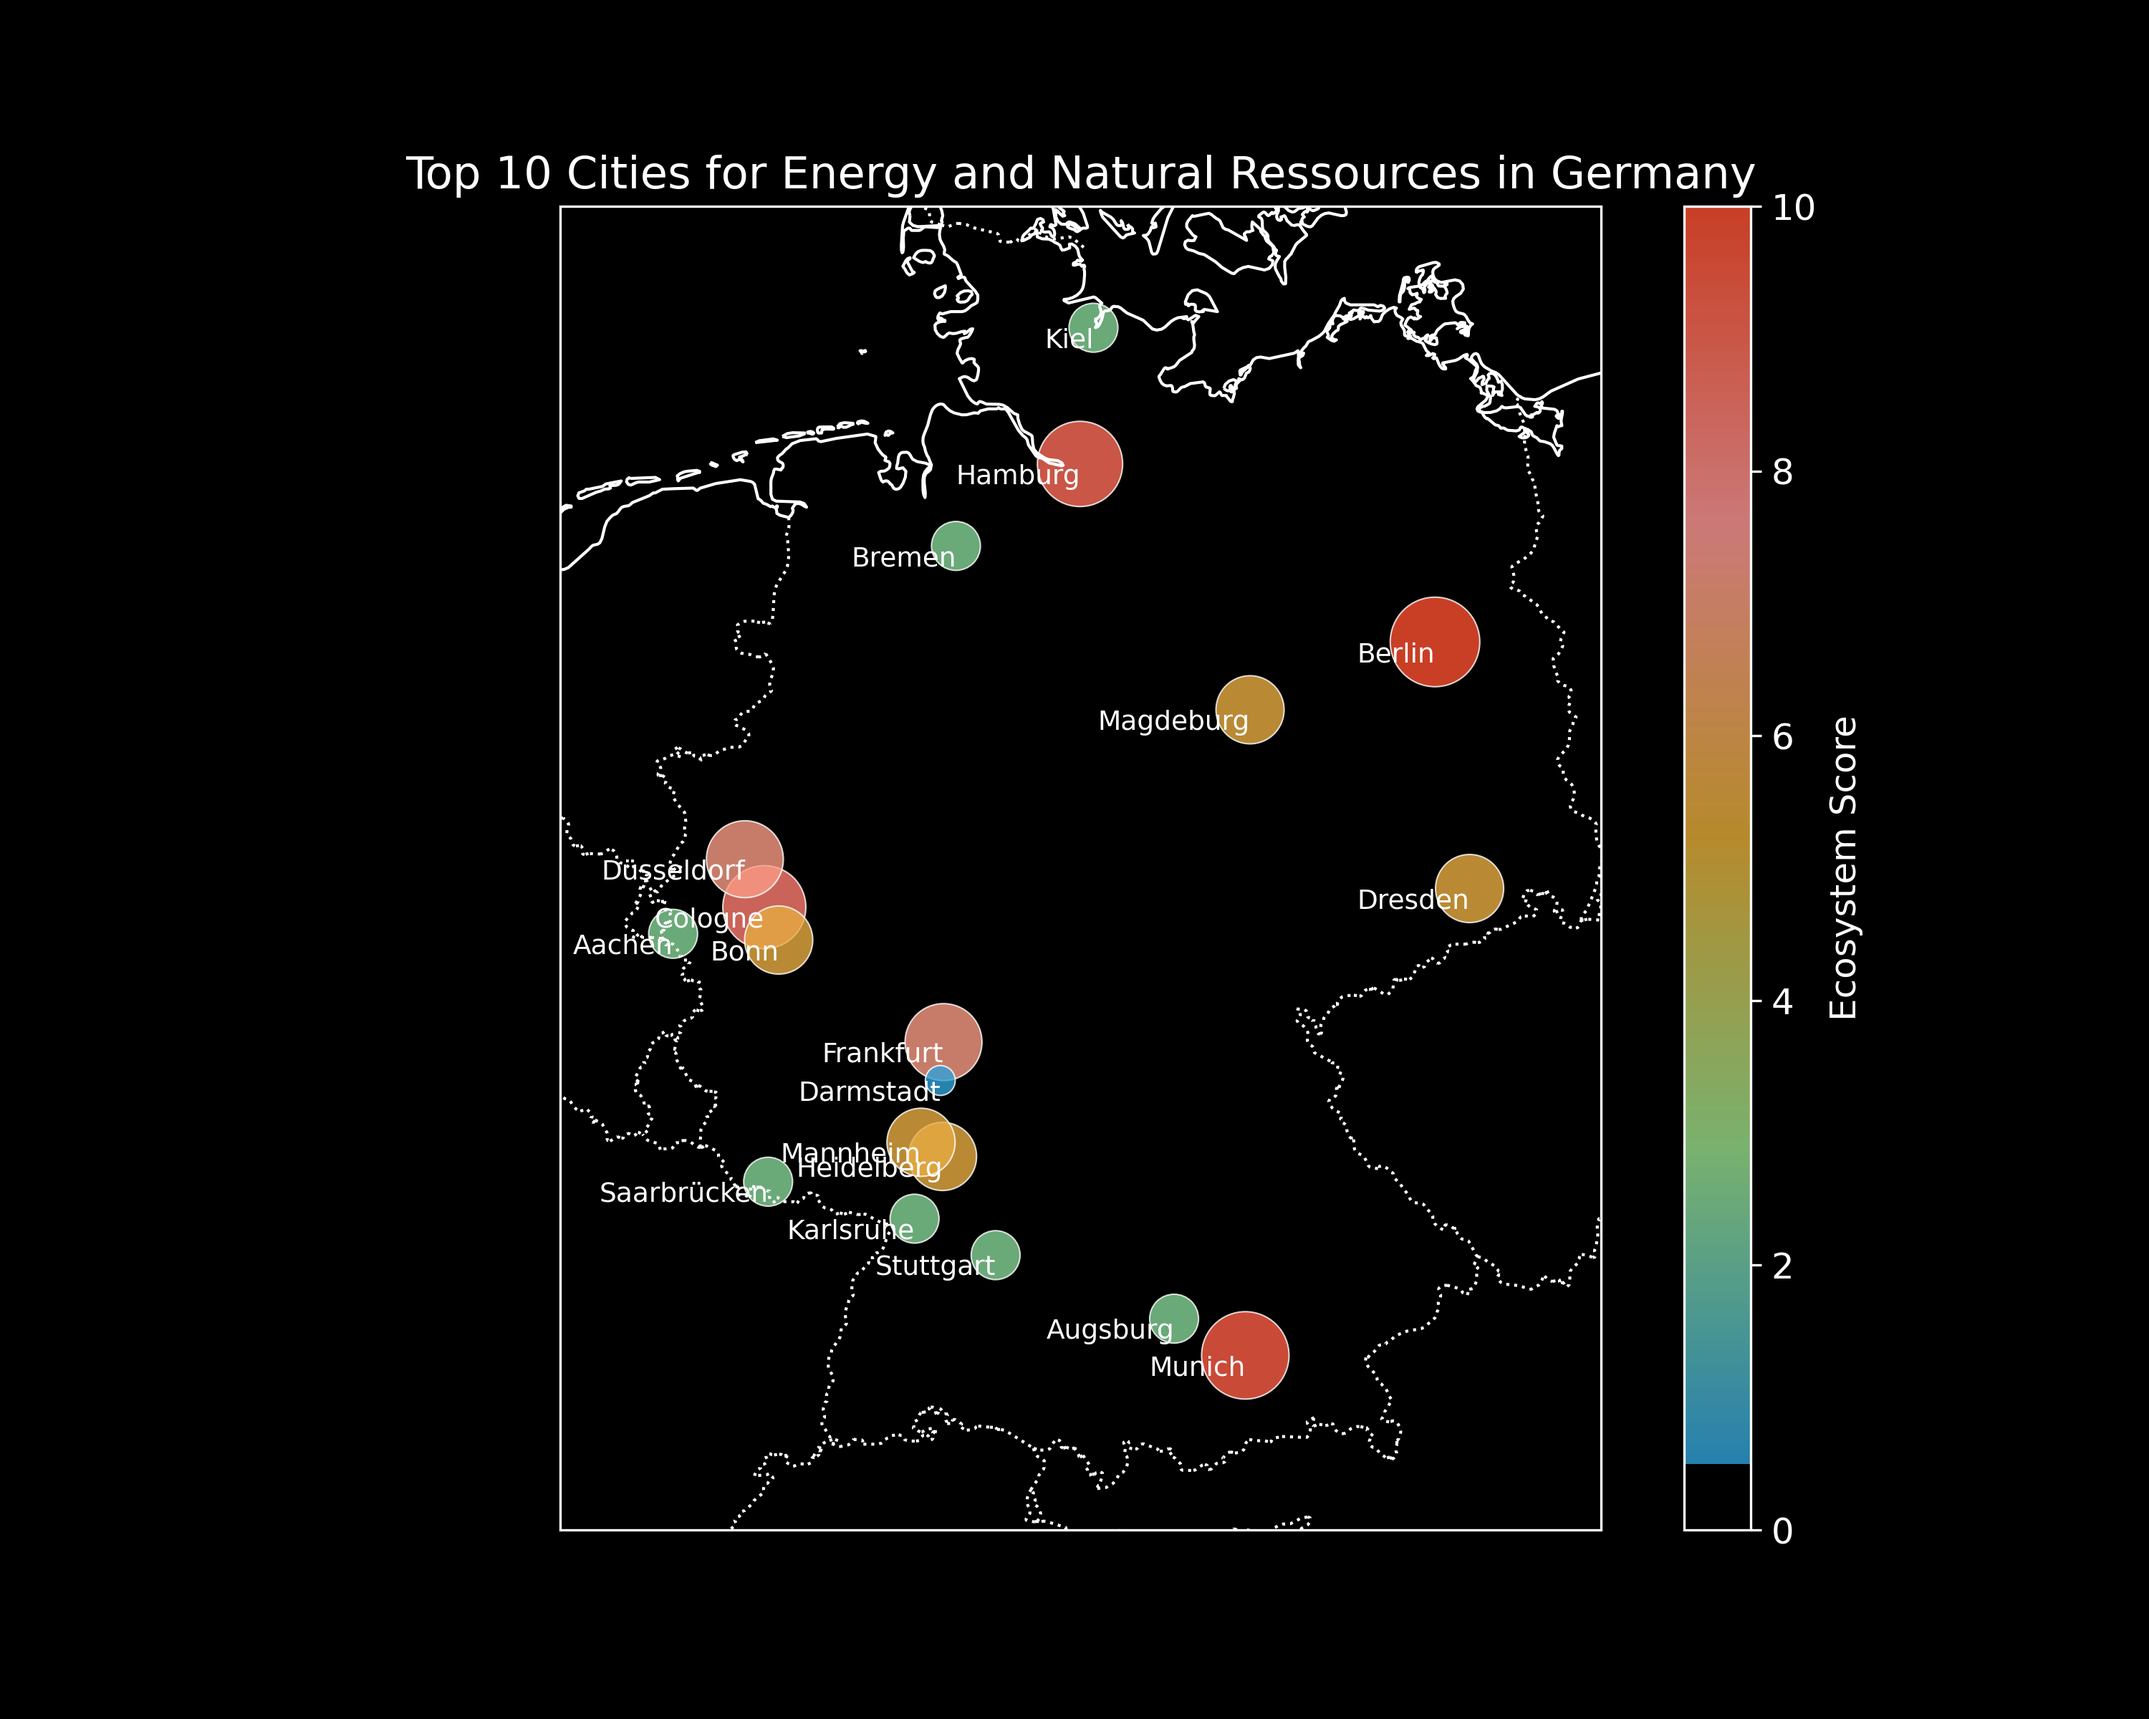
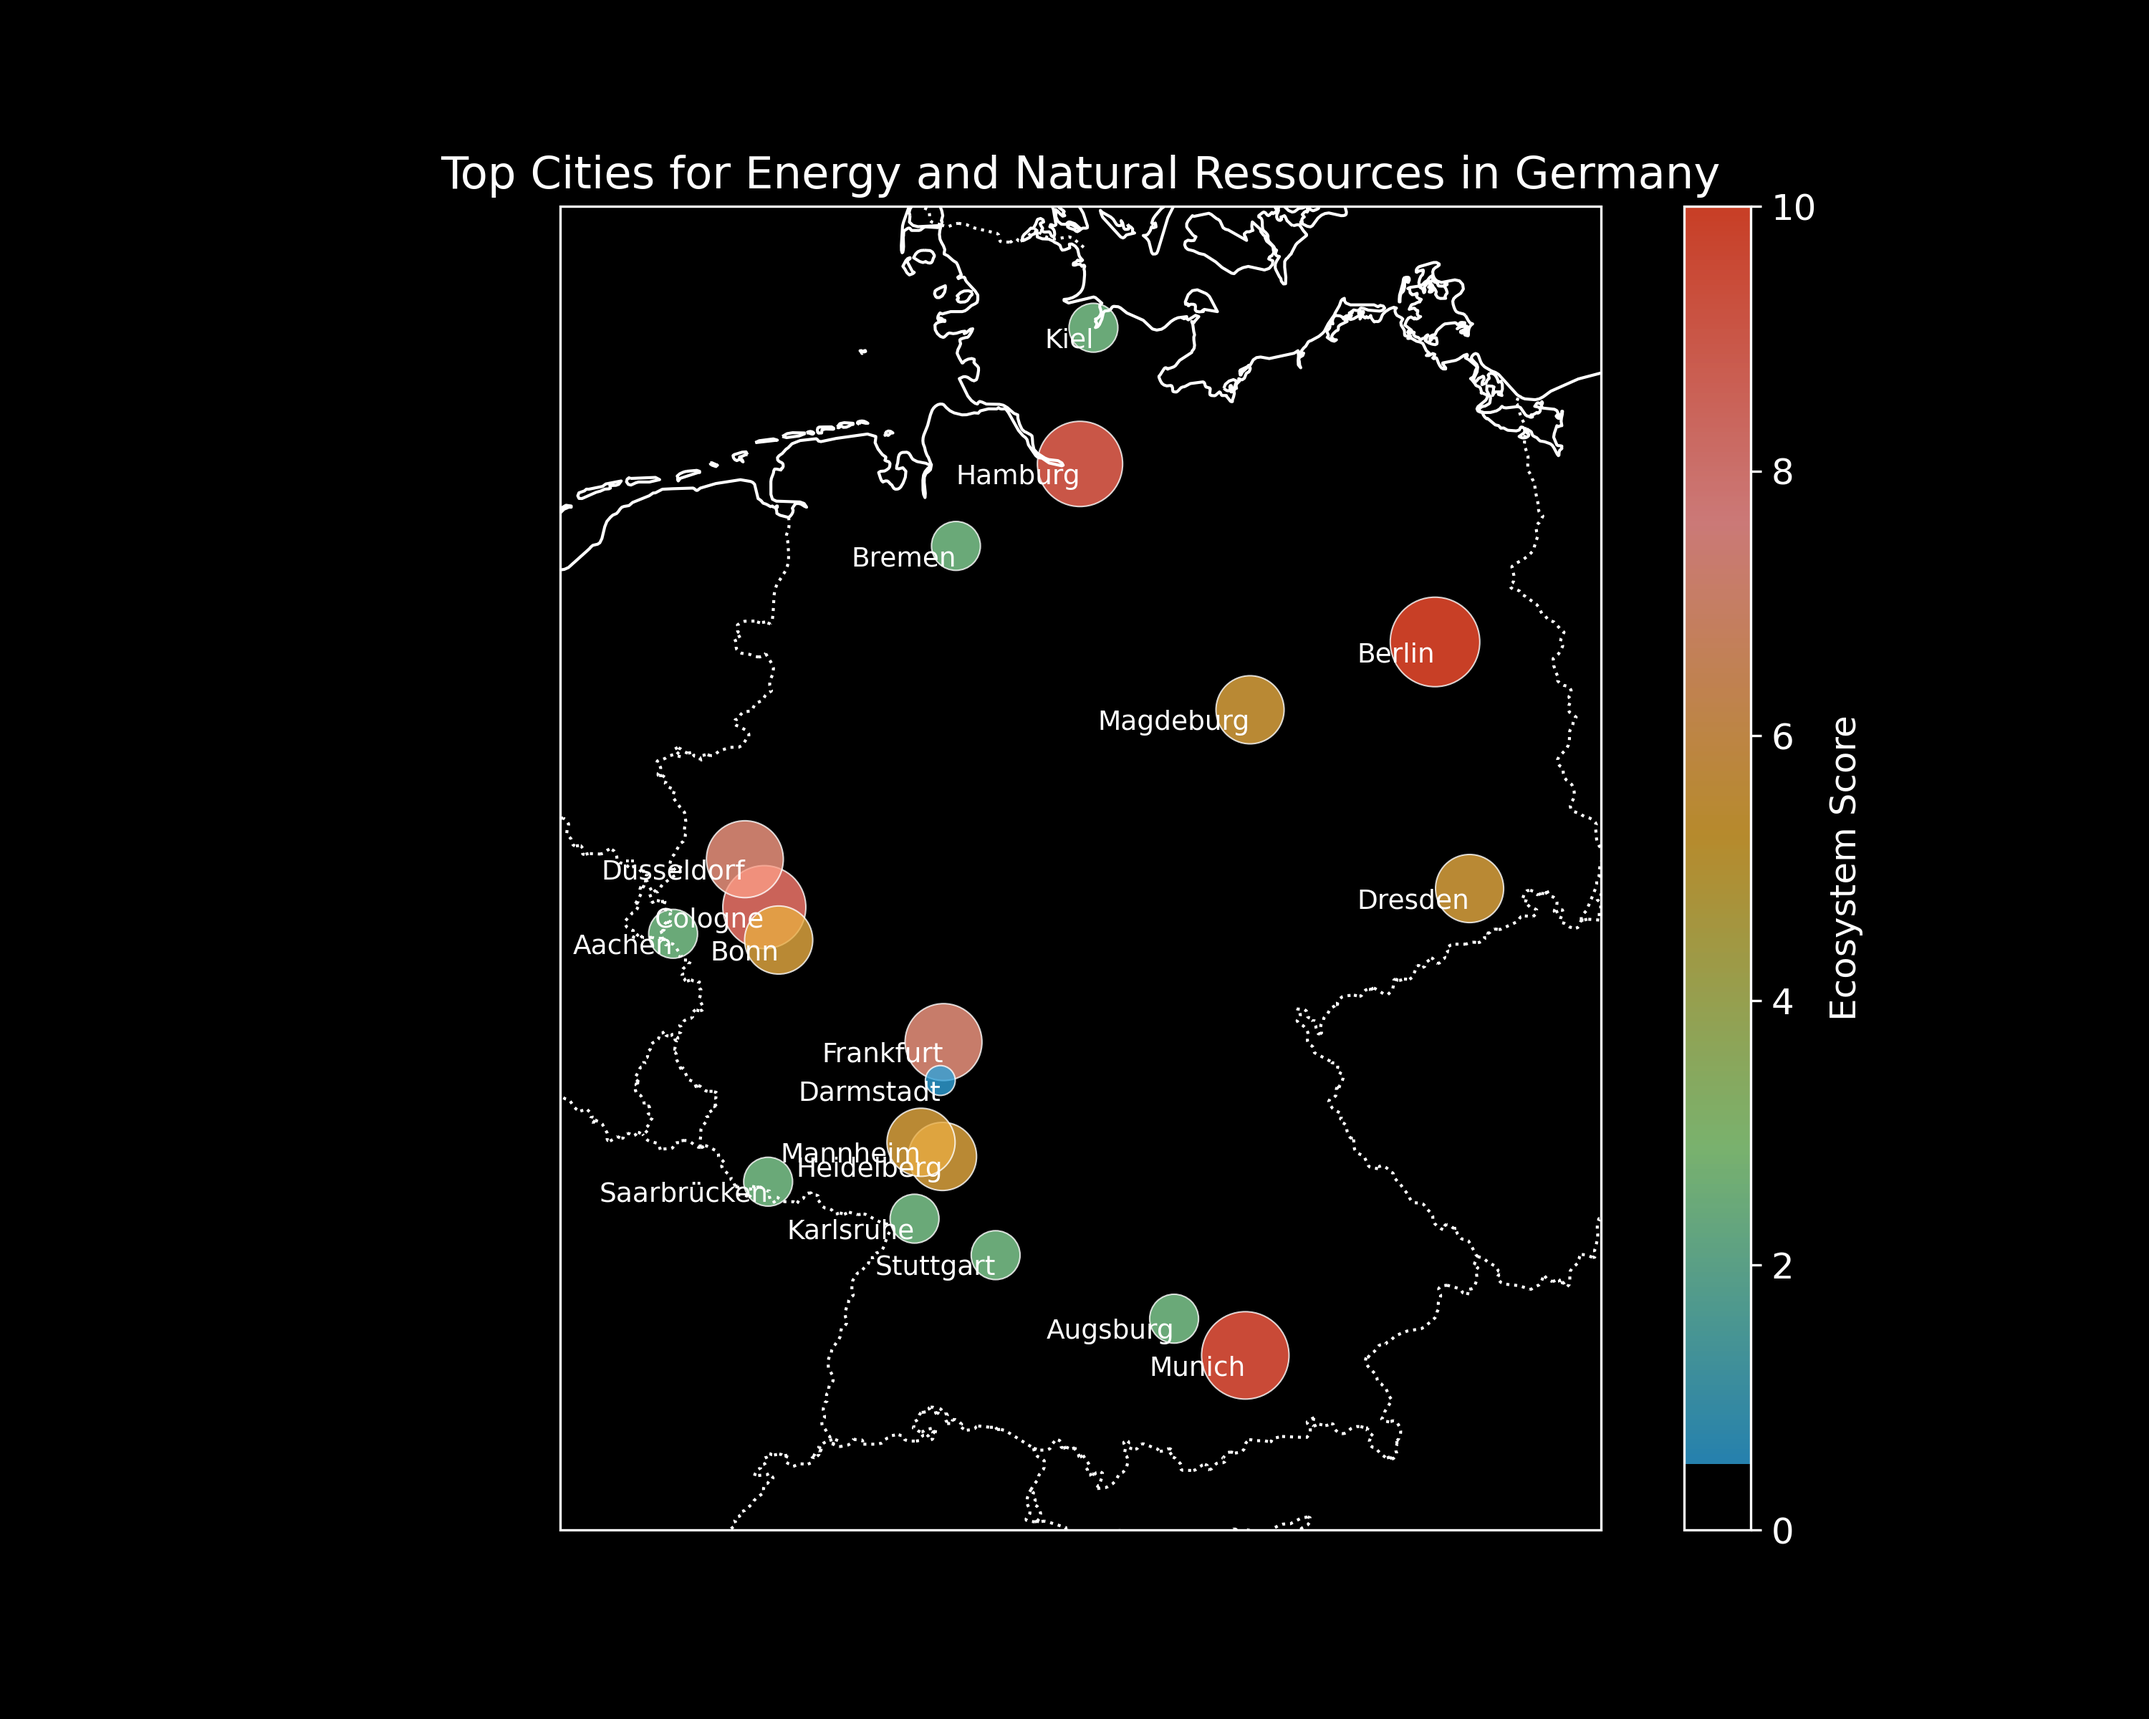
Final changes

Changed region(s): [[0.186, 0.0938, 0.806, 0.125]]

diff --git a/pages/CompanyInsights.py b/pages/CompanyInsights.py
@@ -73,11 +73,11 @@ for funding_type, short_label in desired_funding_types.items():
     median = subset['months_since_founded'].median()
     plt.axvline(median, linestyle='--', color='white', linewidth=1, label='_nolegend_')
     y_pos = plt.ylim()[1] * (0.9 - 0.1 * list(desired_funding_types.keys()).index(funding_type))
-    plt.text(median, y_pos, f'{short_label}: {median:.0f} months', rotation=15, verticalalignment='center', color='white')
+    plt.text(median, y_pos, f'{short_label}: {median:.0f} mos.', rotation=15, verticalalignment='center', fontsize=16, color='white')
 
 # Highlight "Your Company" in the Seed Round
 plt.scatter(your_company_months_since_founded, plt.ylim()[1] * 0.5, color='red', s=100, zorder=5, label='Your Company')
-plt.text(your_company_months_since_founded, plt.ylim()[1] * 0.55, 'Your Company', color='red', fontsize=20, rotation=15, ha='left', va='bottom', alpha=0.8)
+plt.text(your_company_months_since_founded, plt.ylim()[1] * 0.55, 'Your Company', color='red', fontsize=24, rotation=15, ha='left', va='bottom', alpha=0.8)
 
 # Customize the grid lines
 plt.grid(color='white', linestyle='-', linewidth=0.5, alpha=0.3)
@@ -87,9 +87,9 @@ legend = plt.legend(title='Funding Type', facecolor='white', edgecolor='white')
 legend.get_frame().set_facecolor('black')
 
 # Customize the plot labels and title
-plt.title('Startups Lifecycle by Funding Round', color='white')
-plt.xlabel('Months Since Founded', color='white')
-plt.ylabel('Number of Companies', color='white')
+plt.title('Startups Lifecycle by Funding Round', fontsize=26, color='white')
+plt.xlabel('Months Since Founded', fontsize=20, color='white')
+plt.ylabel('Number of Companies', fontsize=20, color='white')
 plt.xticks(color='white')
 plt.yticks([])  # Remove y-axis ticks
 
@@ -162,9 +162,9 @@ plt.ylim(0, df_funding_filtered['total_funding_usd'].max() * 0.1)
 plt.grid(color='white', linestyle='-', linewidth=0.5, alpha=0.5)
 
 # Set the labels and title
-plt.xlabel('Funding Round')
-plt.ylabel('Total Funding (USD in Millions)')
-plt.title('Total Funding Raised by Companies in Pre-Seed, Seed, and Series A')
+plt.xlabel('Funding Round', fontsize=20,)
+plt.ylabel('Total Funding (USD in Millions)', fontsize=20,)
+plt.title('Total Funding Raised by Companies in Pre-Seed, Seed, and Series A', fontsize=20,)
 
 # Show the figure in Streamlit
 tab2.pyplot(plt)
@@ -237,8 +237,8 @@ for bar in bars:
     plt.text(bar.get_x() + bar.get_width() / 2.0, height, f'{height:.2f}', ha='center', va='bottom', fontsize=10)
 
 # Labels and title
-plt.ylabel('Funding Ratio')
-plt.title('Funding Ratio from One Round to the Next (Seed Round Companies)')
+plt.ylabel('Funding Ratio', fontsize=20,)
+plt.title('Funding Ratio from One Round to the Next (Seed Round Companies)', fontsize=20,)
 
 # Make the grid lines fainter
 plt.grid(True, which='both', linestyle='--', linewidth=0.5, color='gray', alpha=0.3)

diff --git a/pages/IndustryBenchmarks.py b/pages/IndustryBenchmarks.py
@@ -16,8 +16,9 @@ with open("style.css") as f: # Benedikt's tmp comment: /code/mberkancetin/startu
     st.markdown(f"<style>{f.read()}</style>", unsafe_allow_html=True)
 
 st.write("## Industry Benchmarks  🚀 ")
-tab0, tab1, tab2, tab3 = st.tabs(["Map 🗺", "Time to Exit by Industry   ",
-                    "Probability of Exit by Industry   ",
+tab0, tab2, tab1, tab3 = st.tabs(["Map 🗺",
+                    "Probability of Closing Next Round by Industry   ",
+                    "Time to Exit by Industry   ",
                     "Exit recommendation           "
                     ])
 
@@ -215,7 +216,7 @@ cbar.outline.set_edgecolor('white')
 cbar.set_label('Ecosystem Score', color='white', fontsize=12)
 
 # Add title
-plt.title('Top 10 Cities for Energy and Natural Ressources in Germany', color='white', fontsize=15)
+plt.title('Top Cities for Energy and Natural Ressources in Germany', color='white', fontsize=15)
 
 # Optionally, add labels for each city
 for i, row in tech_software_df.iterrows():
@@ -333,7 +334,7 @@ if 'founded_date' in st.session_state and 'next_stage_funding' in st.session_sta
     tab1.plotly_chart(fig1, use_container_width=True)
 
     # Bar Chart für den Vergleich der Success Rate
-    fig2 = px.bar(benchmark_df, x='Industry', y='Success Rate (%)', title='Probability of successful Exit by Industry')
+    fig2 = px.bar(benchmark_df, x='Industry', y='Success Rate (%)', title='Probability of Closing Next Round by Industry')
     fig2.add_scatter(
         x=input_df['Industry'],
         y=input_df['Success Rate (%)'],
@@ -471,7 +472,7 @@ with colt:
         st.switch_page("app.py")
 
 with colu:
-    if st.button("Company Benchmarks"):
+    if st.button("Company Insights"):
         st.switch_page("pages/CompanyInsights.py")
 
 with colv:

diff --git a/app.py b/app.py
@@ -703,7 +703,7 @@ if submitted:
     url = "https://newmodel-jagyvvkiea-ew.a.run.app/predict"
     response = requests.get(url=url, params=params)
     success_prediction = response.json()["Success Probability"]
-    if success_prediction < 0.6:
+    if success_prediction < 0.8:
         st.session_state.success_prediction = round(success_prediction * 100, 2)
     else:
         st.session_state.success_prediction = round(np.power(success_prediction, np.e) * 100, 2)
